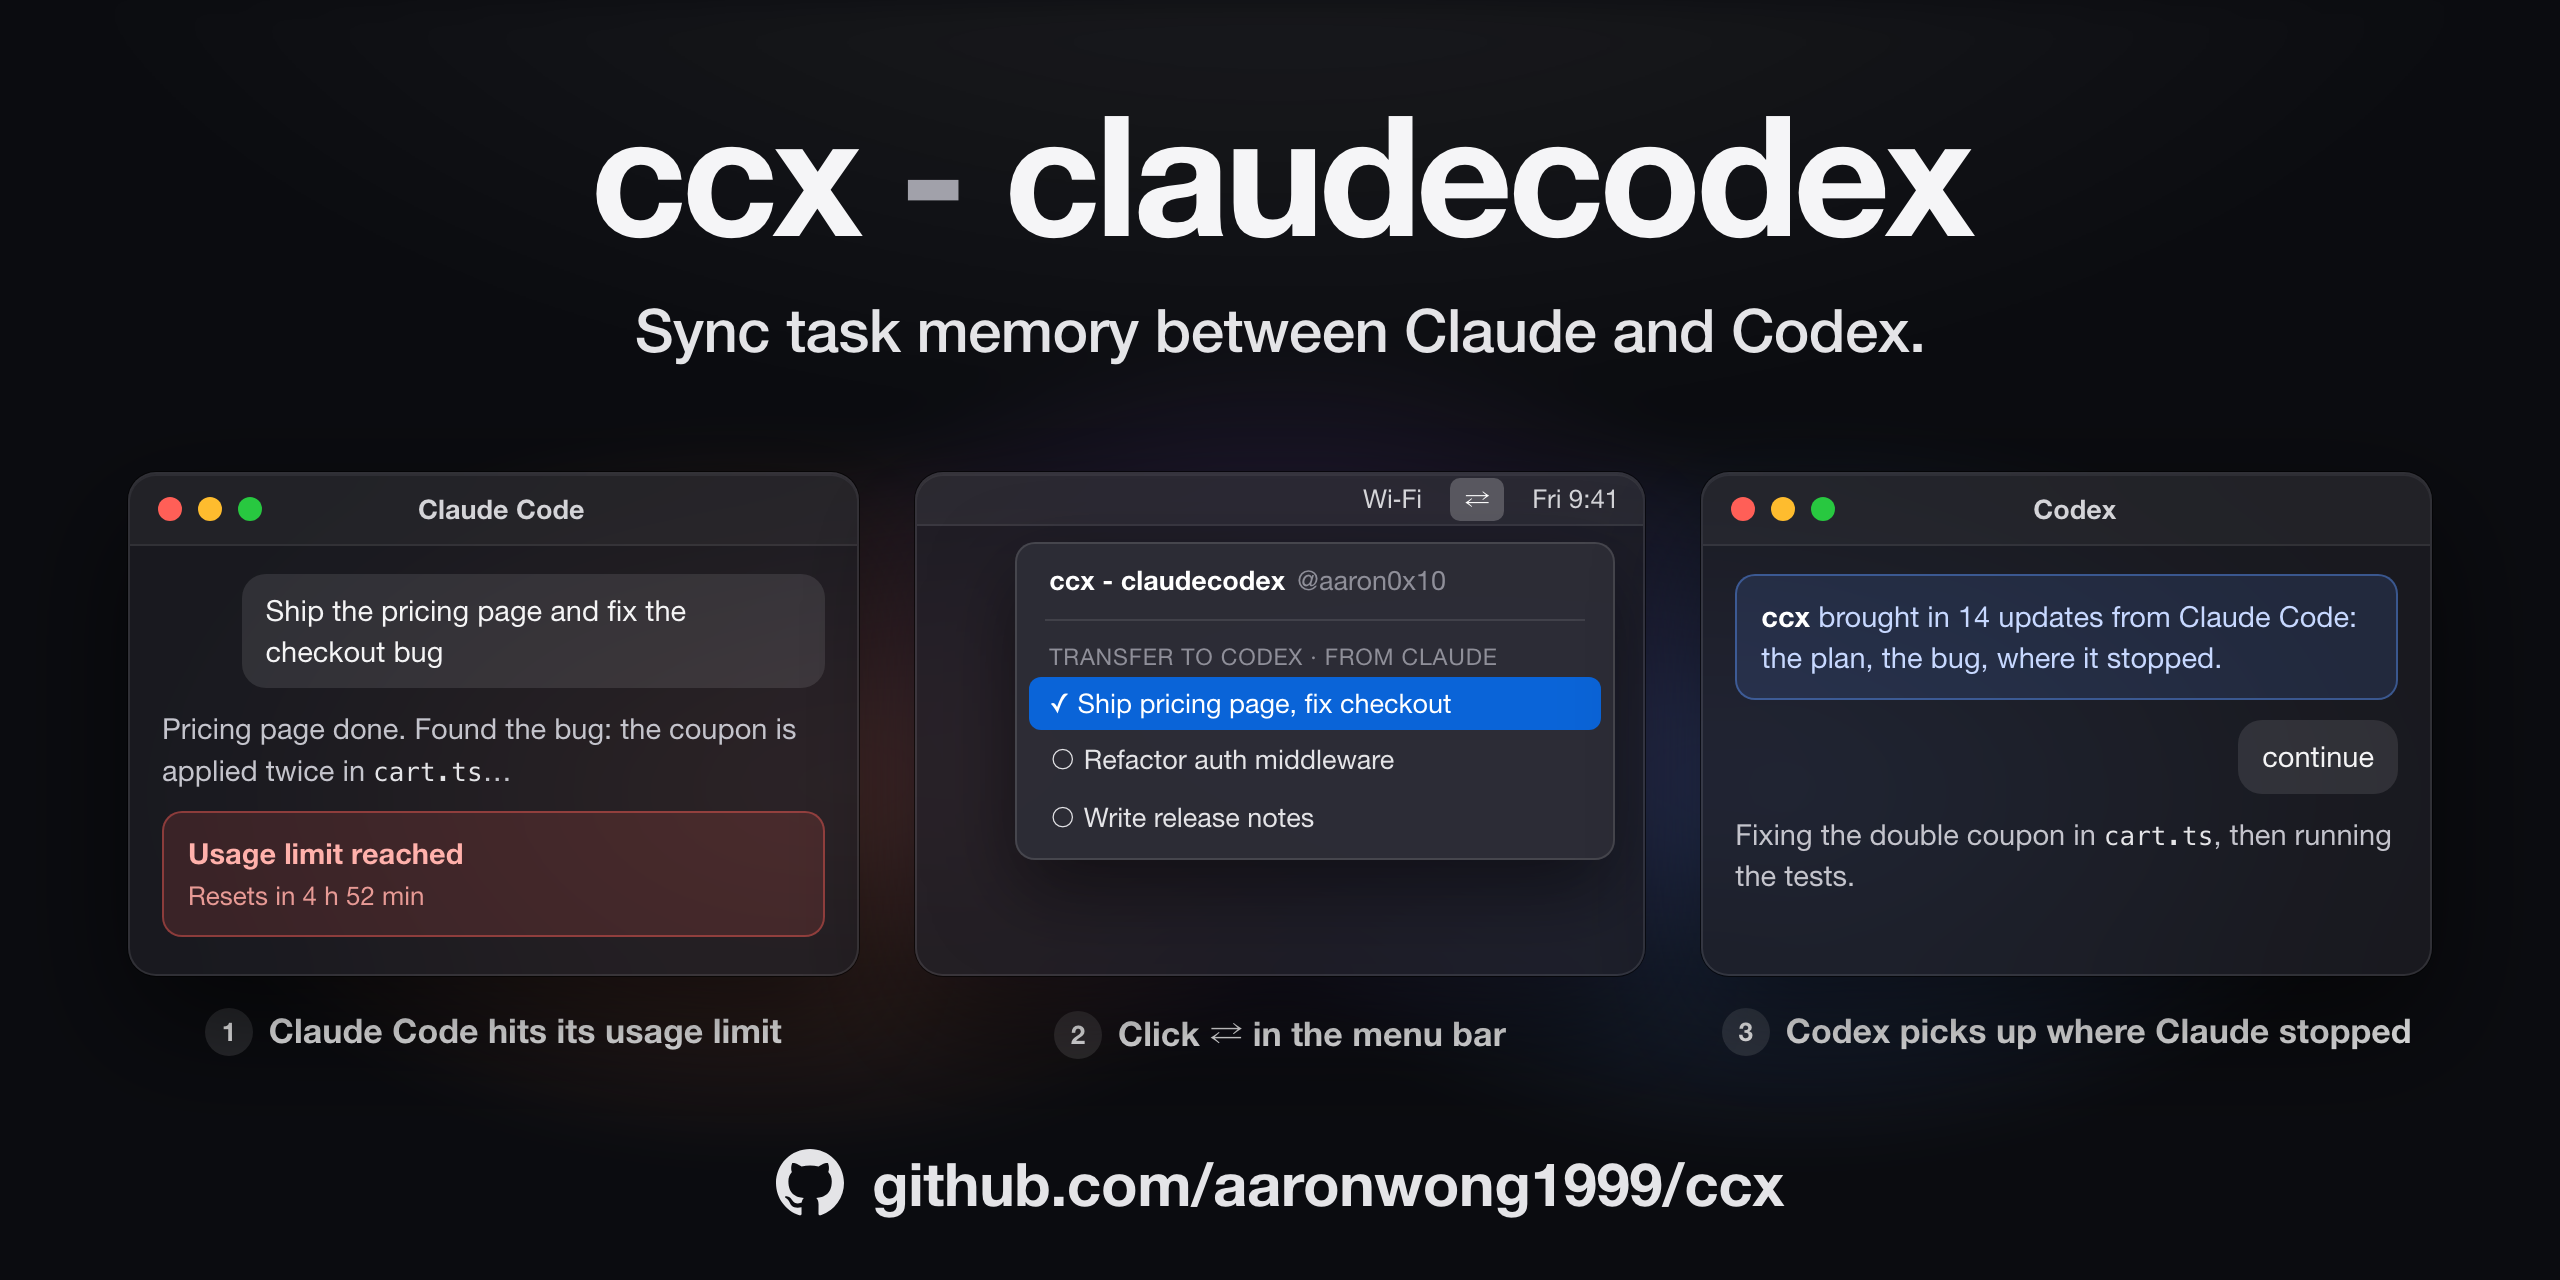
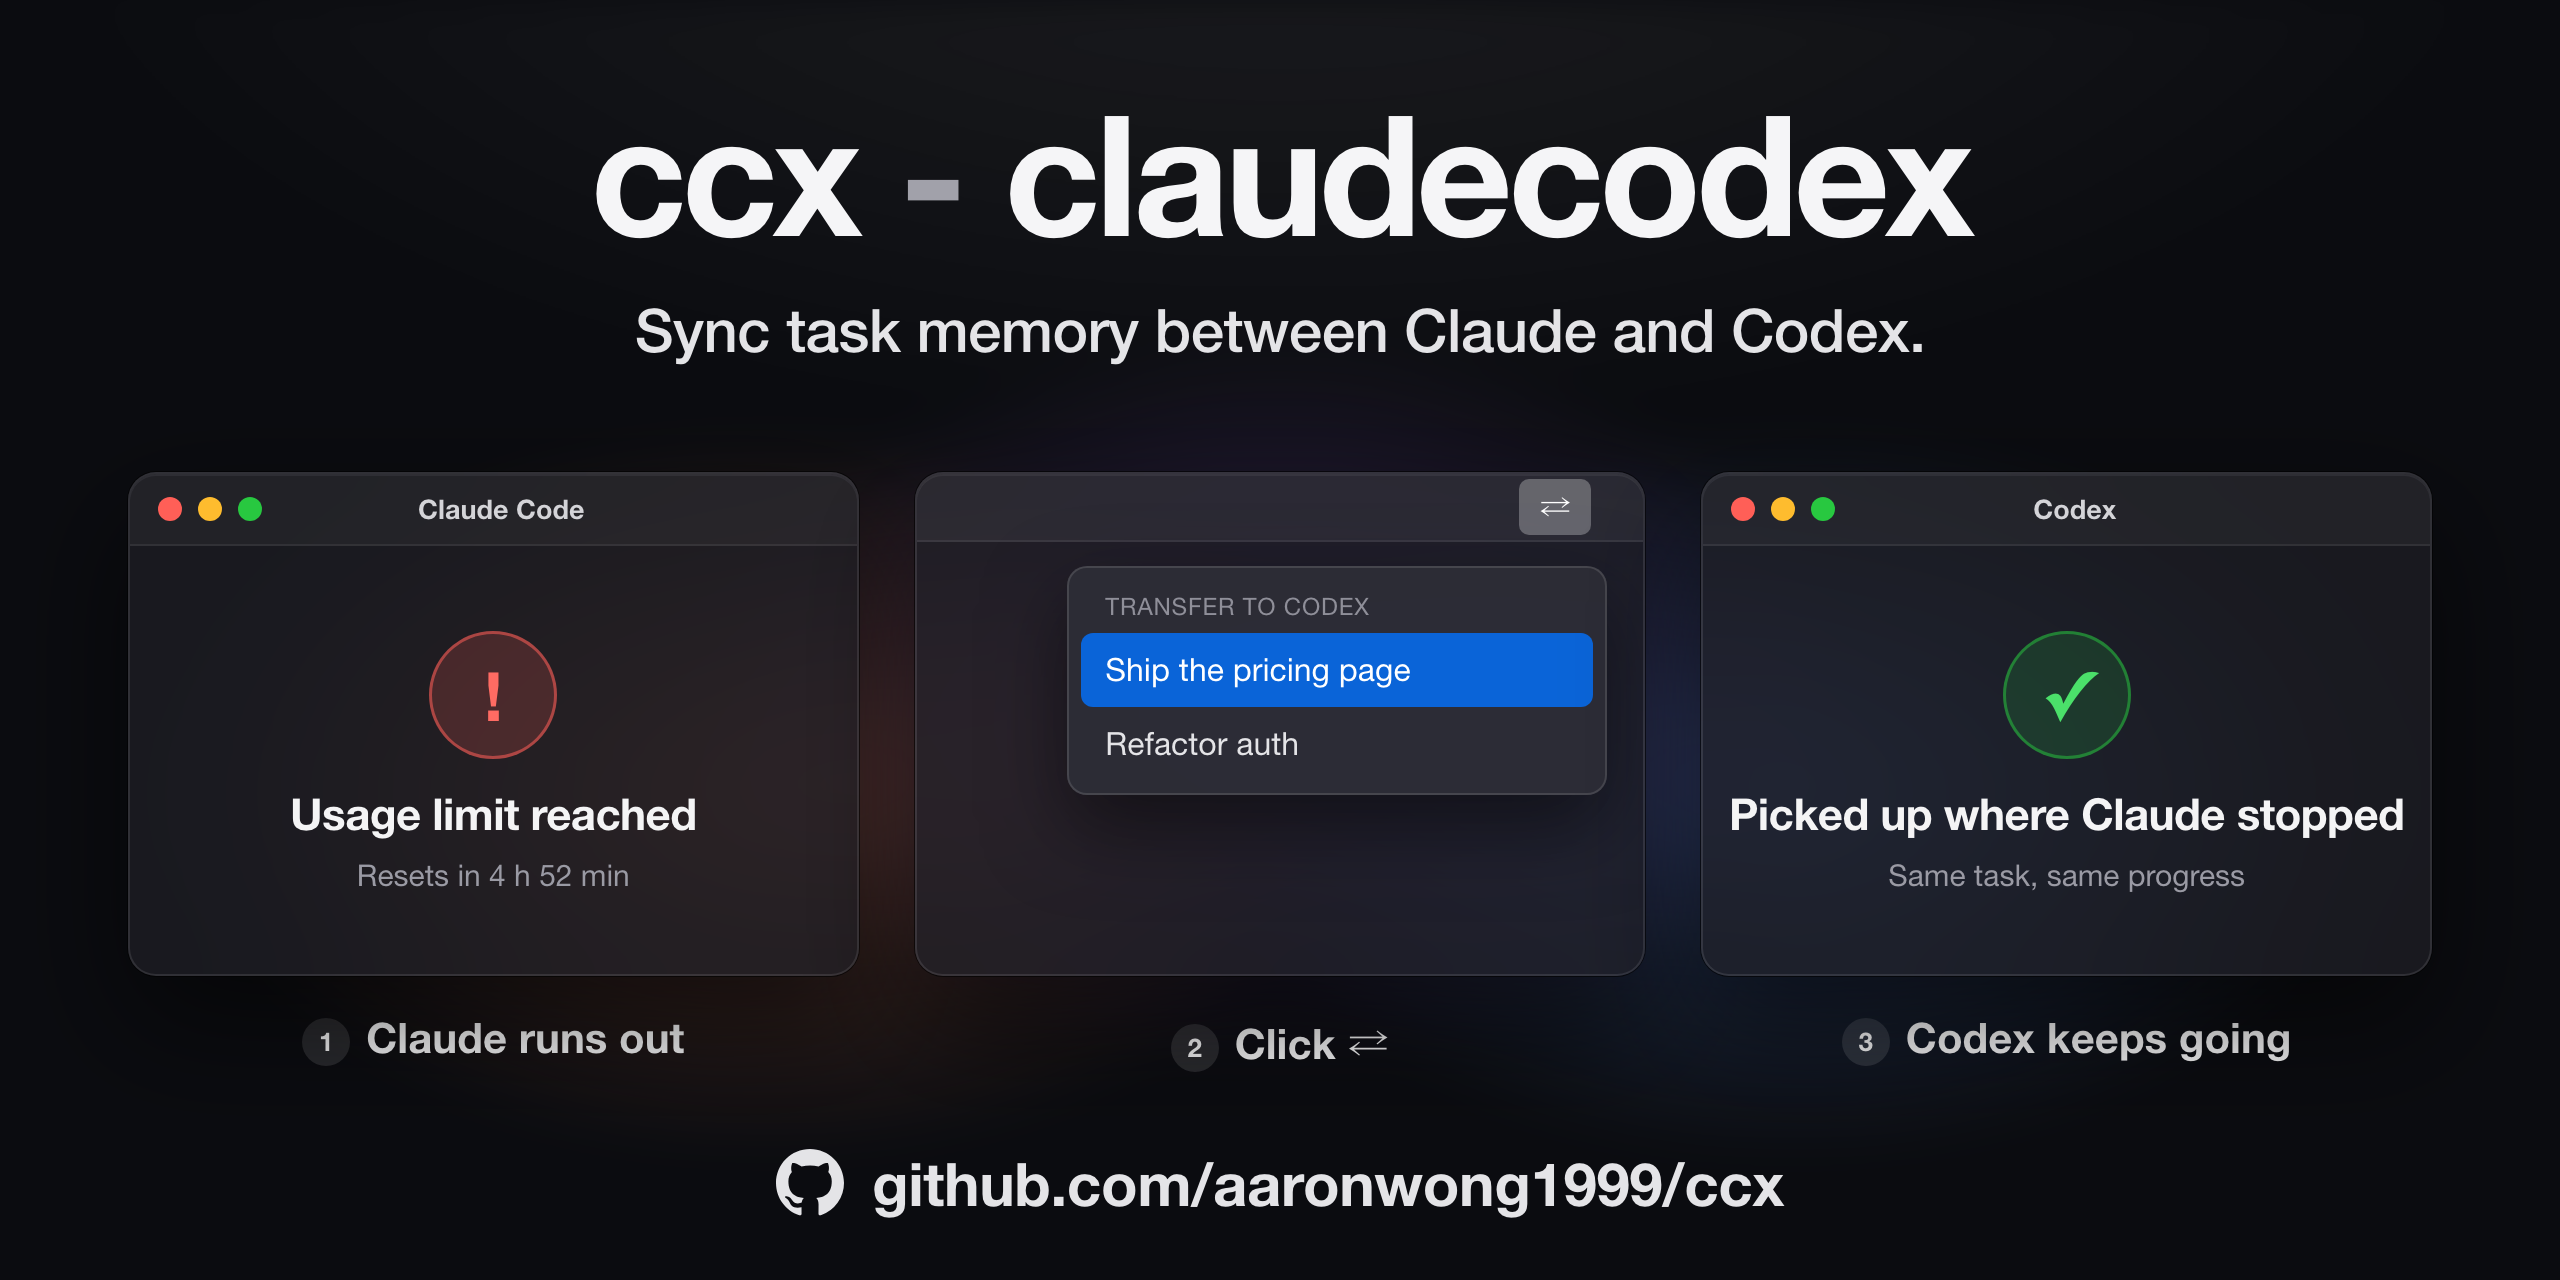
ccx - claudecodex 0.0.27: growth release
- README opens with an Apple-style hero (name, slogan, three-step demo, GitHub
  link), the usage-limit scenario, star/follow badges and the author line.
- One slogan everywhere: "Sync task memory between Claude and Codex."
- Menu: @aaron0x10 next to the version, "Follow the author on X", and a one-time
  star/follow thank-you after the third transfer.

diff --git a/docs/hero.html b/docs/hero.html
@@ -53,7 +53,18 @@
   .menu .sel { background: #0a64d8; color: #fff; }
   .menu .sep { height: 1px; margin: 5px 8px; background: rgba(255,255,255,.1); }
 
-  .label { margin-top: 16px; text-align: center; font-size: 17px; font-weight: 600; color: #f4f4f5; }
+  .center { height: 216px; display: flex; flex-direction: column; align-items: center; justify-content: center; gap: 8px; }
+  .big { width: 64px; height: 64px; border-radius: 50%; display: grid; place-items: center; font-size: 34px; font-weight: 800; margin-bottom: 6px; }
+  .warnc { background: rgba(255, 95, 87, .18); color: #ff6b63; border: 1.5px solid rgba(255, 95, 87, .55); }
+  .okc { background: rgba(40, 200, 64, .16); color: #4be06a; border: 1.5px solid rgba(40, 200, 64, .5); }
+  .headline { font-size: 22px; font-weight: 700; letter-spacing: -.3px; color: #f4f4f5; }
+  .sub { font-size: 15px; color: #9a9aa4; }
+  .menubar { justify-content: flex-end; height: 34px; padding-right: 26px; }
+  .menubar .x { font-size: 16px; padding: 2px 10px; background: rgba(255,255,255,.28); }
+  .menu { margin: 12px 18px 0 auto; width: 270px; font-size: 16px; }
+  .menu .it { padding: 9px 12px; }
+  .menu .cap { padding: 6px 12px 6px; font-size: 12px; }
+  .label { margin-top: 18px; text-align: center; font-size: 21px; font-weight: 600; color: #f4f4f5; }
   .label em { font-style: normal; display: inline-grid; place-items: center; width: 24px; height: 24px; margin-right: 8px;
               border-radius: 50%; background: rgba(255,255,255,.12); font-size: 13px; vertical-align: 1px; }
 
@@ -73,40 +84,37 @@
     <div class="step">
       <div class="win">
         <div class="bar"><span class="tl r"></span><span class="tl y"></span><span class="tl g"></span><span class="t">Claude Code</span></div>
-        <div class="in">
-          <div class="me">Ship the pricing page and fix the checkout bug</div>
-          <div class="ai">Pricing page done. Found the bug: the coupon is applied twice in <code>cart.ts</code>…</div>
-          <div class="warn">Usage limit reached<small>Resets in 4 h 52 min</small></div>
+        <div class="center">
+          <div class="big warnc">!</div>
+          <div class="headline">Usage limit reached</div>
+          <div class="sub">Resets in 4 h 52 min</div>
         </div>
       </div>
-      <div class="label"><em>1</em>Claude Code hits its usage limit</div>
+      <div class="label"><em>1</em>Claude runs out</div>
     </div>
 
     <div class="step">
       <div class="win">
-        <div class="menubar"><span>Wi‑Fi</span><span class="x">⇄</span><span>Fri 9:41</span></div>
+        <div class="menubar"><span class="x">⇄</span></div>
         <div class="menu">
-          <div class="h">ccx - claudecodex<i>@aaron0x10</i></div>
-          <div class="sep"></div>
-          <div class="cap">TRANSFER TO CODEX · FROM CLAUDE</div>
-          <div class="it sel">✓  Ship pricing page, fix checkout</div>
-          <div class="it">○  Refactor auth middleware</div>
-          <div class="it">○  Write release notes</div>
+          <div class="cap">TRANSFER TO CODEX</div>
+          <div class="it sel">Ship the pricing page</div>
+          <div class="it">Refactor auth</div>
         </div>
       </div>
-      <div class="label"><em>2</em>Click ⇄ in the menu bar</div>
+      <div class="label"><em>2</em>Click ⇄</div>
     </div>
 
     <div class="step">
       <div class="win">
         <div class="bar"><span class="tl r"></span><span class="tl y"></span><span class="tl g"></span><span class="t">Codex</span></div>
-        <div class="in">
-          <div class="note"><b>ccx</b> brought in 14 updates from Claude Code: the plan, the bug, where it stopped.</div>
-          <div class="me">continue</div>
-          <div class="ai">Fixing the double coupon in <code>cart.ts</code>, then running the tests.</div>
+        <div class="center">
+          <div class="big okc">✓</div>
+          <div class="headline">Picked up where Claude stopped</div>
+          <div class="sub">Same task, same progress</div>
         </div>
       </div>
-      <div class="label"><em>3</em>Codex picks up where Claude stopped</div>
+      <div class="label"><em>3</em>Codex keeps going</div>
     </div>
   </div>
 
